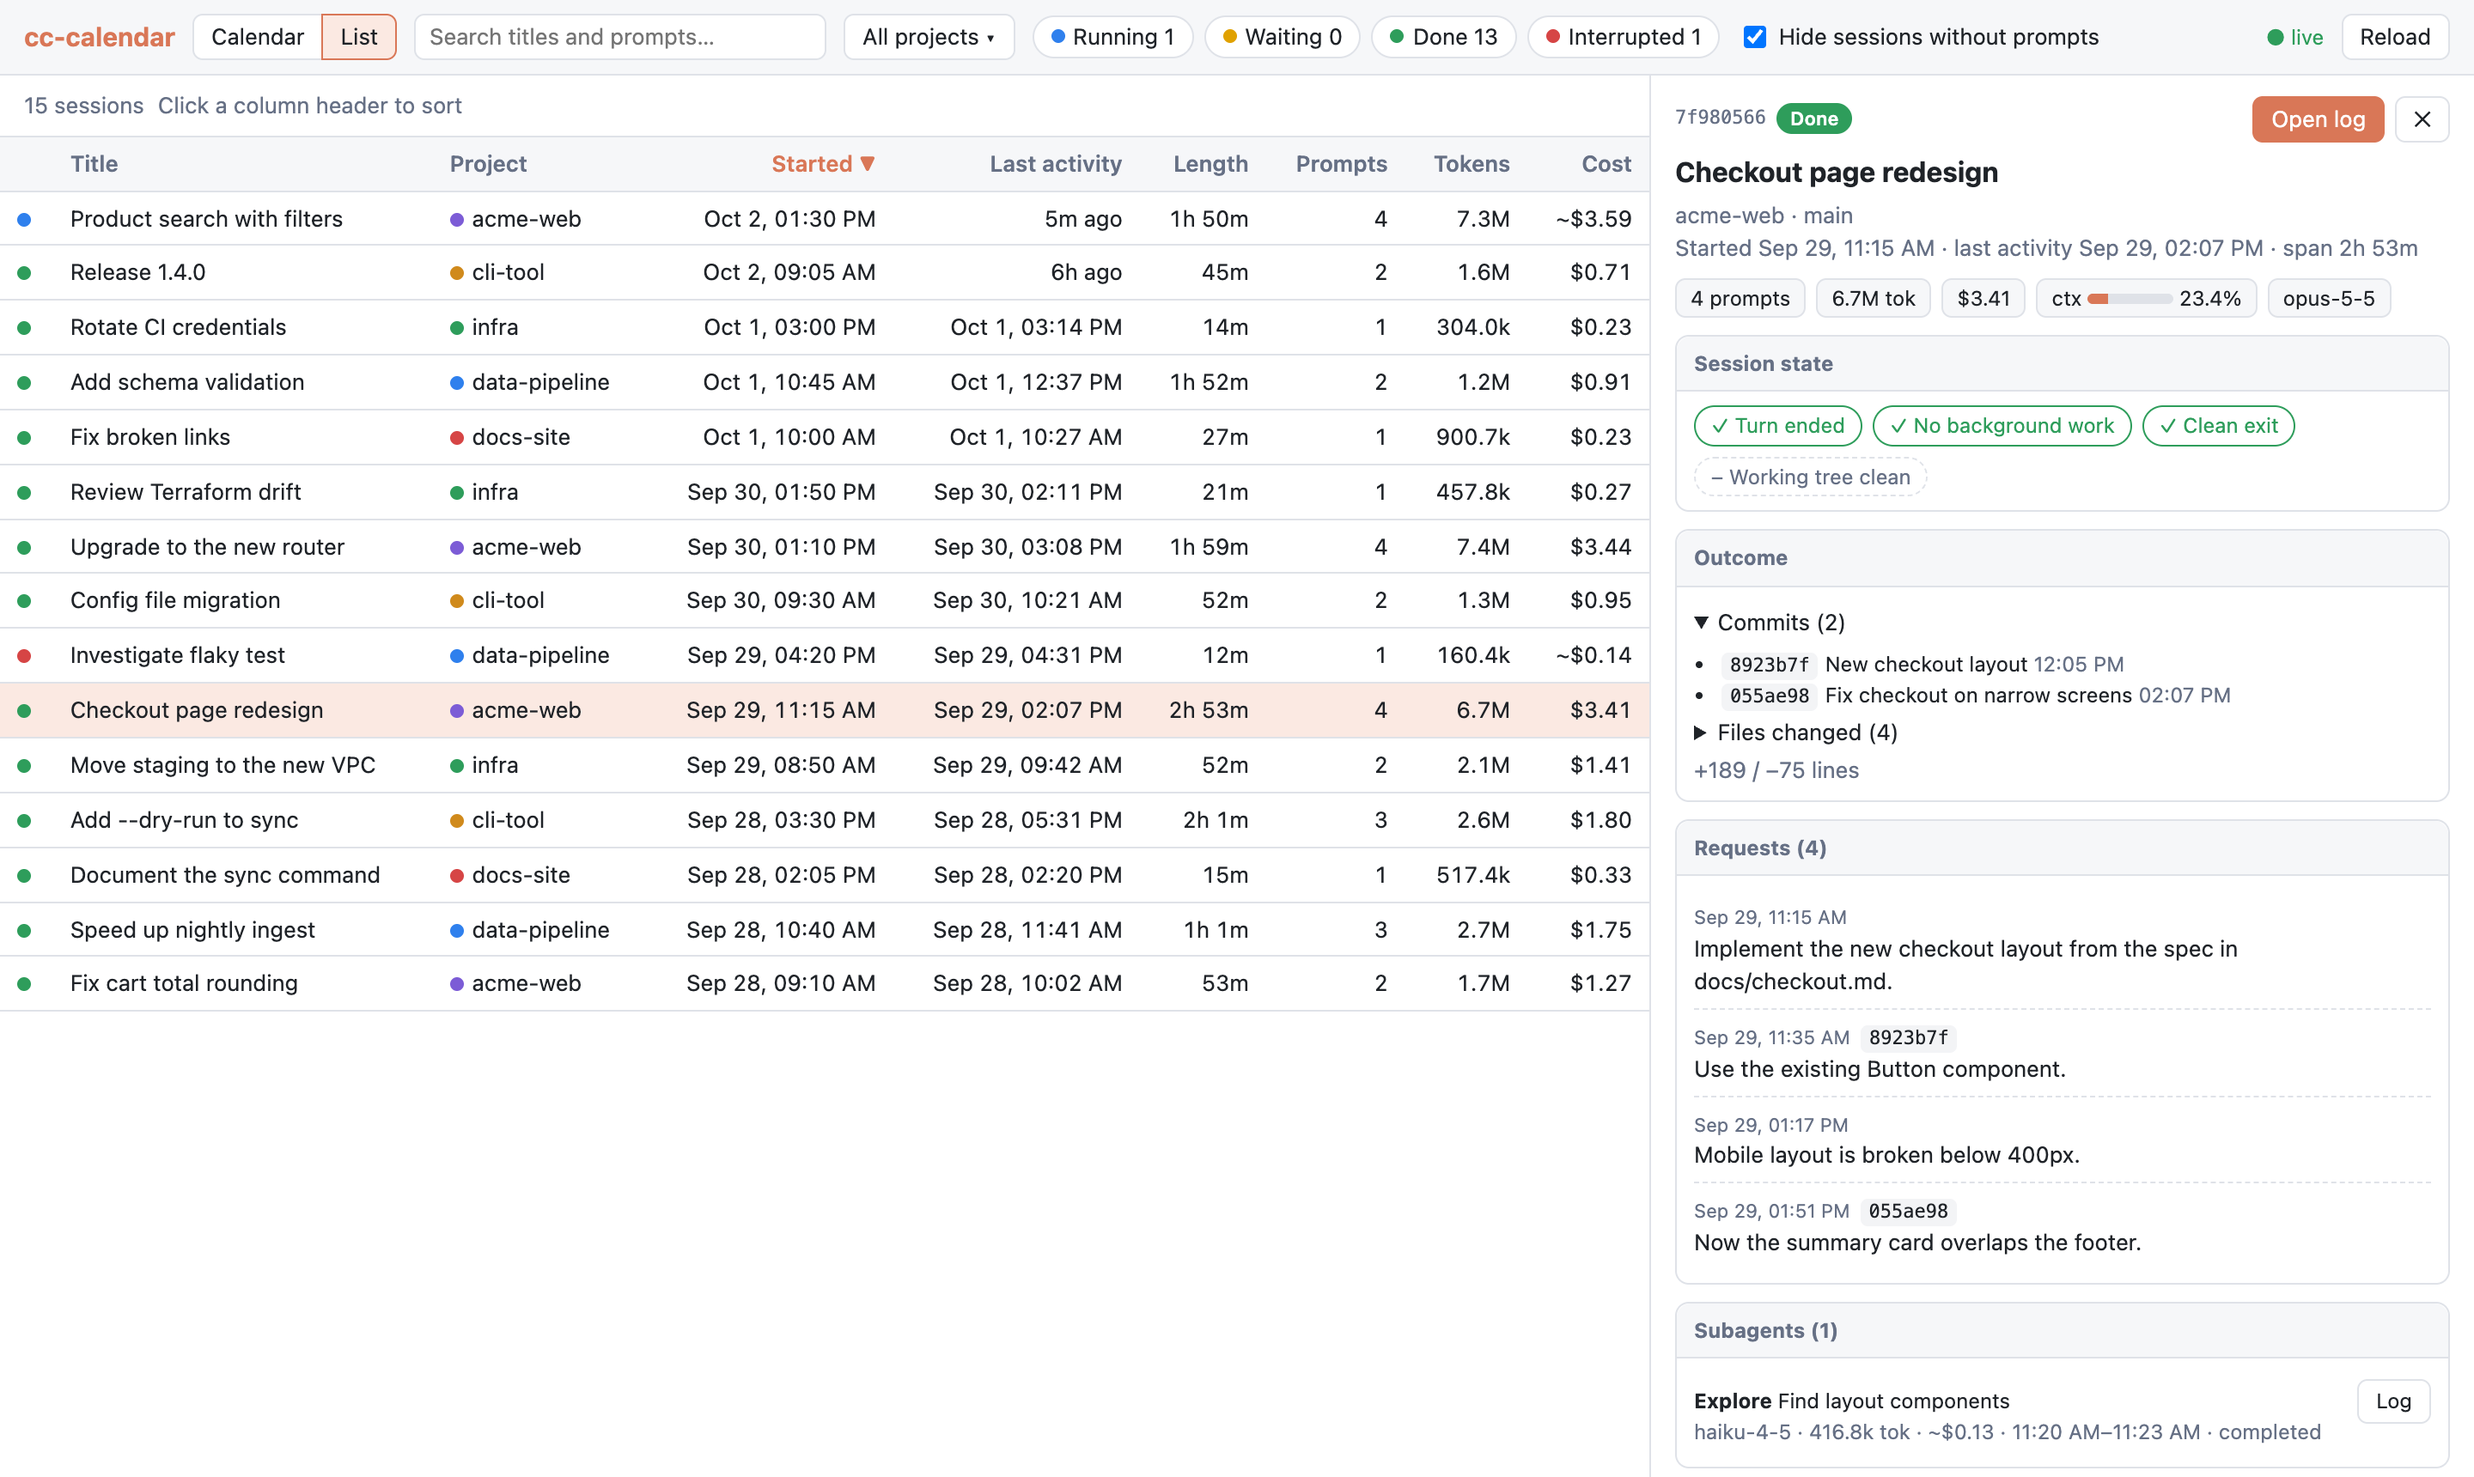
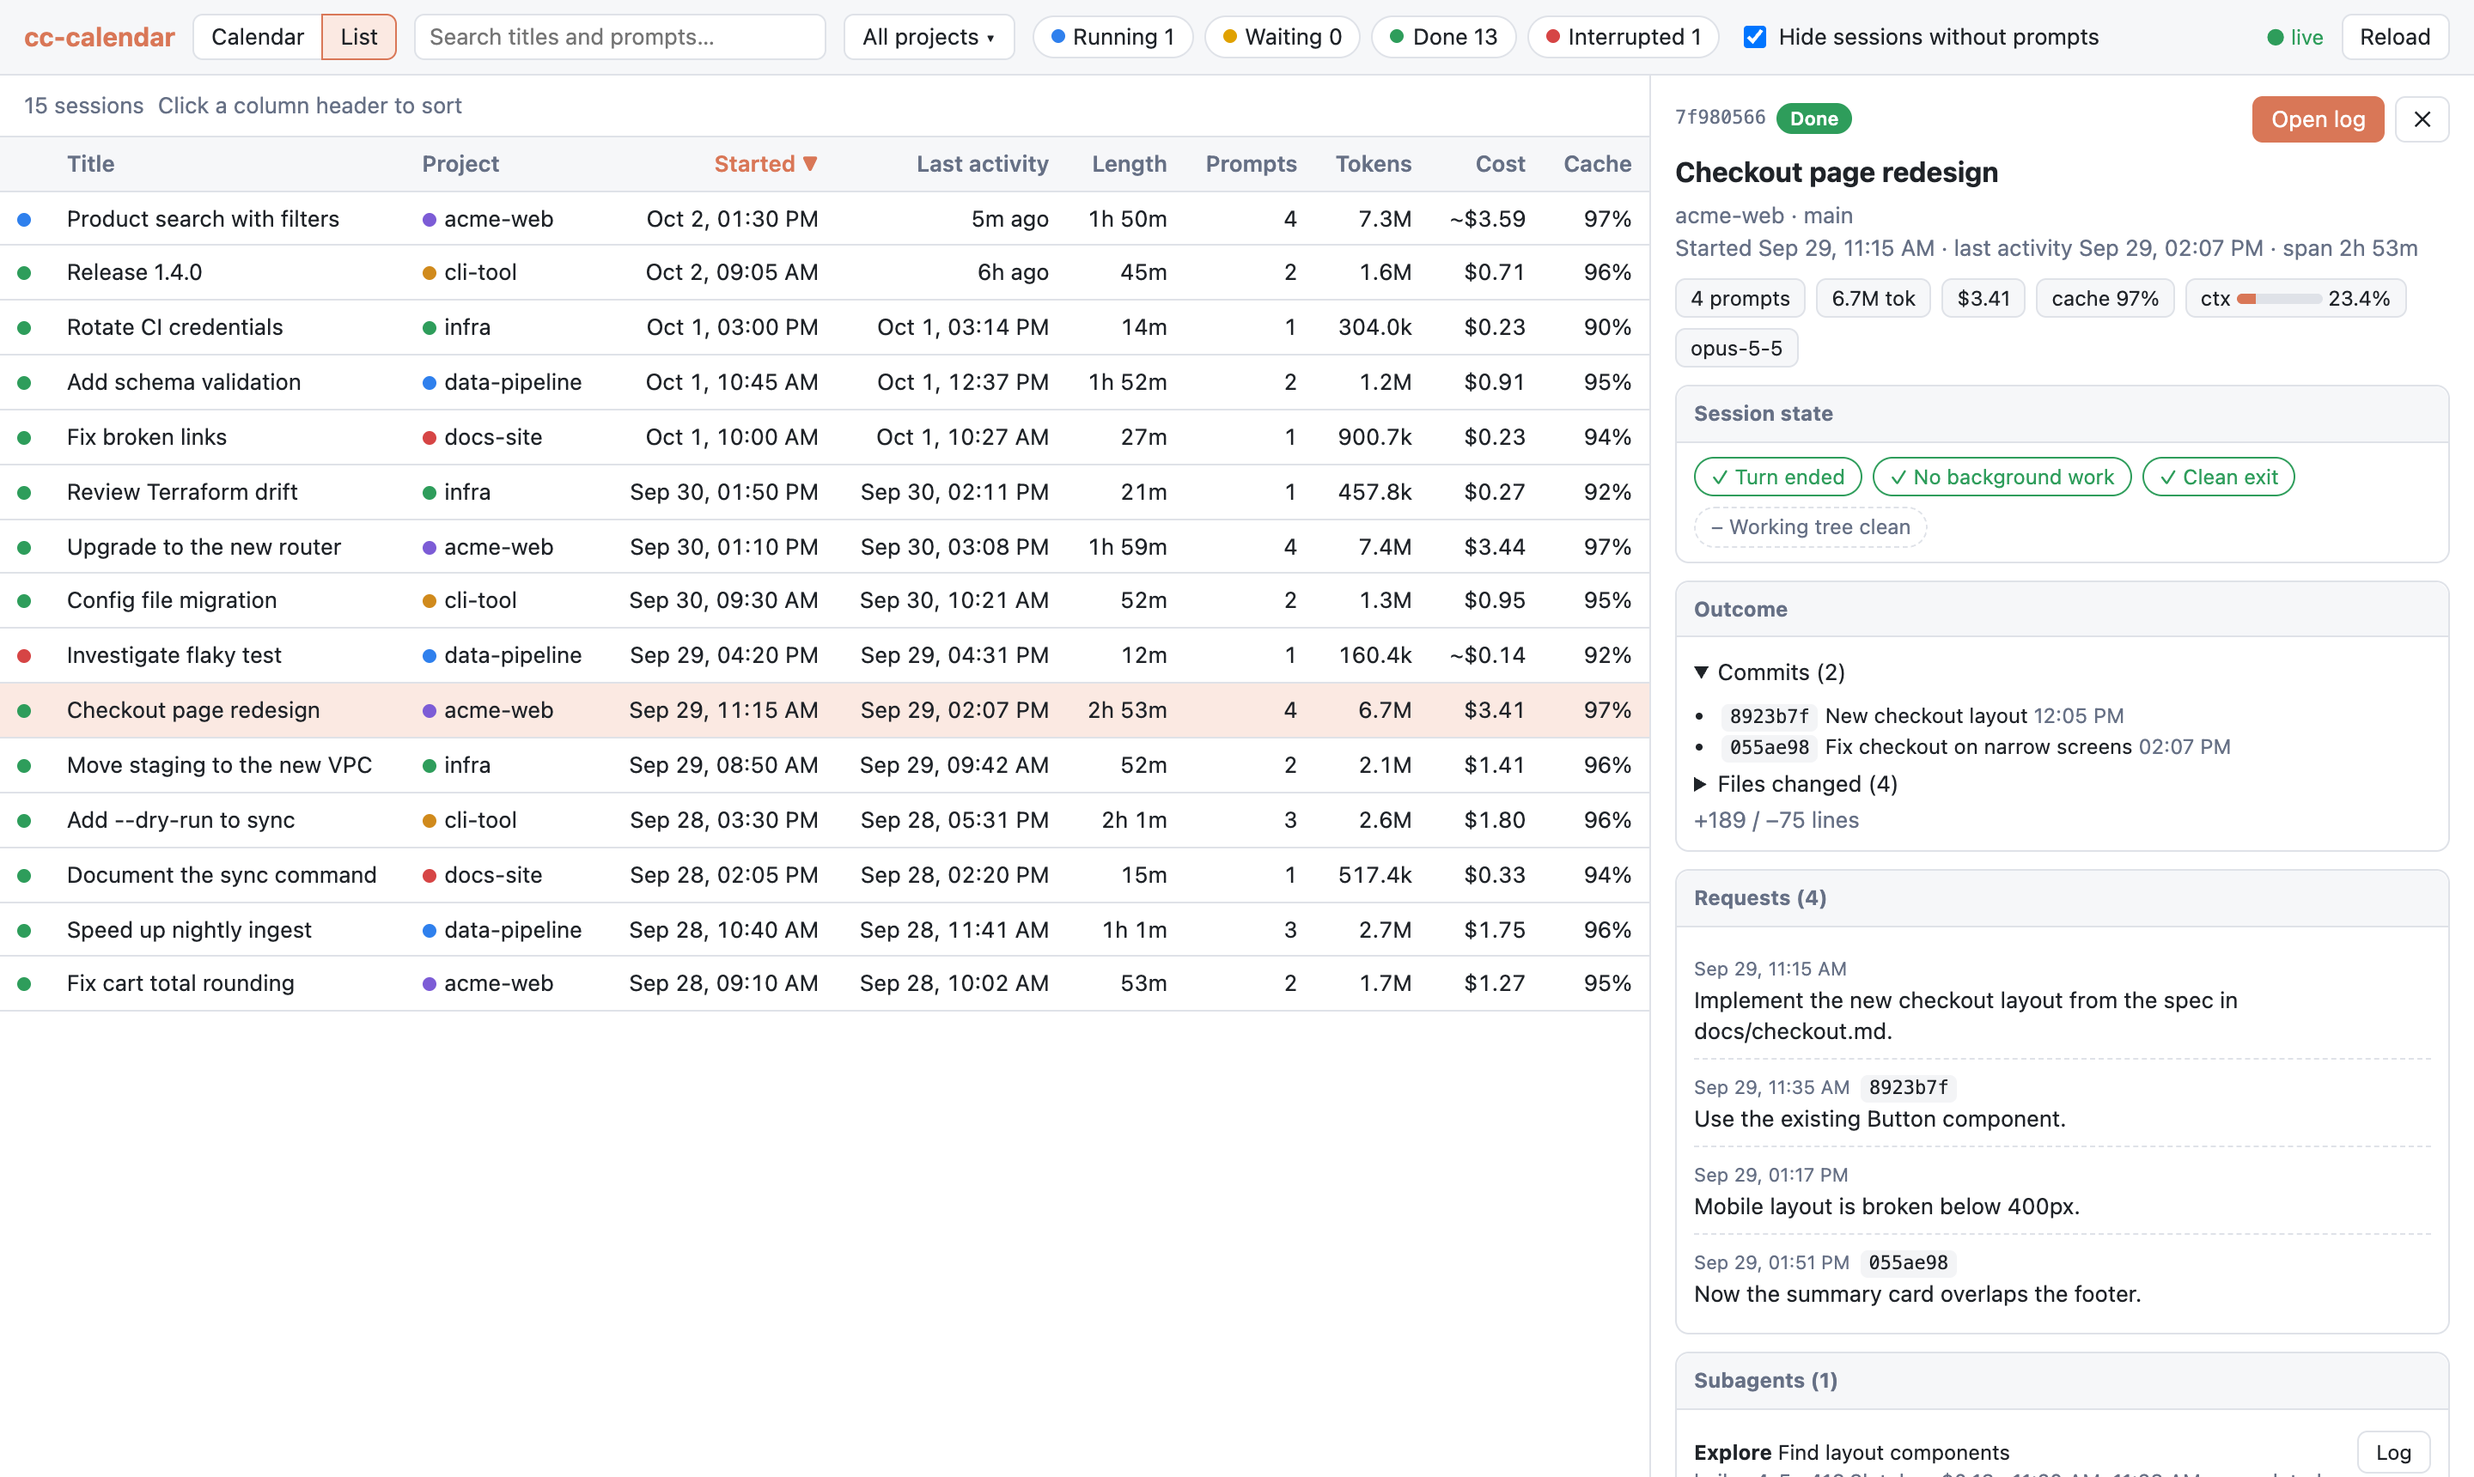
Show cache hit rate and savings per session
Compute each session's cache hit rate (cache reads as a share of
input-side tokens) and the estimated amount caching saved, net of the
cache write premium, including subagents. Show it in the detail pane,
as a sortable Cache column in the list, and as a tile in the
transcript stats. Rates below 90% are highlighted.

Closes #26

diff --git a/src/cc_calendar/static/app.js b/src/cc_calendar/static/app.js
@@ -3,8 +3,8 @@ import { renderCalendar } from "./calendar.js";
 import { renderDetail } from "./detail.js";
 import { openLog } from "./transcript.js";
 import {
-  STATUS_HINTS, STATUS_LABELS, addDays, fmtAgo, fmtCost, fmtDateTime, fmtDuration, fmtTokens, h,
-  matchSnippet, paletteColor,
+  CACHE_LOW, STATUS_HINTS, STATUS_LABELS, addDays, cacheTitle, fmtAgo, fmtCost, fmtDateTime, fmtDuration, fmtTokens, h,
+  fmtPct, matchSnippet, paletteColor,
   prefs, shortModel, startOfDay, startOfWeek, statusColor,
 } from "./util.js";
 
@@ -240,6 +240,7 @@ const LIST_COLUMNS = [
   ["prompts", "Prompts", (s) => s.prompt_count, "desc", true],
   ["tokens", "Tokens", (s) => s.tokens, "desc", true],
   ["cost", "Cost", (s) => s.cost, "desc", true],
+  ["cache", "Cache", (s) => s.cache_hit, "asc", true],
 ];
 
 function sortRows(rows) {
@@ -275,7 +276,7 @@ function renderList(visible) {
     const sorted = state.sort.key === key;
     return h("th", {
       class: ["sortable", numeric ? "num" : "", sorted ? "sorted" : ""].join(" ").trim(),
-      title: key === "status" ? "Sort by status" : `Sort by ${label.toLowerCase()}`,
+      title: key === "status" ? "Sort by status" : key === "cache" ? "Sort by cache hit rate" : `Sort by ${label.toLowerCase()}`,
       onclick: () => setSort(key),
     }, label, sorted ? (state.sort.dir === "asc" ? " ▲" : " ▼") : "");
   });
@@ -297,6 +298,8 @@ function renderList(visible) {
           h("td", { class: "num" }, s.prompt_count),
           h("td", { class: "num" }, fmtTokens(s.tokens)),
           h("td", { class: "num" }, fmtCost(s.cost, s.cost_estimated)),
+          h("td", { class: "num" + (s.cache_hit != null && s.cache_hit < CACHE_LOW ? " warn" : ""), title: cacheTitle(s.cache_hit, s.cache_saved) },
+            fmtPct(s.cache_hit)),
         ))),
     ),
   );

diff --git a/src/cc_calendar/static/transcript.js b/src/cc_calendar/static/transcript.js
@@ -1,6 +1,7 @@
 // Modal transcript viewer with lazy loading and subagent drill-down.
 import {
-  fmtCost, fmtDateTime, fmtDuration, fmtTime, fmtTokens, h, prefs, renderMarkdown, shortModel,
+  cacheTitle, fmtCost, fmtDateTime, fmtDuration, fmtPct, fmtTime, fmtTokens, h, prefs, renderMarkdown,
+  shortModel,
 } from "./util.js";
 
 const PAGE = 300;
@@ -130,6 +131,9 @@ function renderStats(panel, st) {
     tile("Output", fmtTokens(t.output), "tok"),
     tile("Cache read", fmtTokens(t.cache_read), "tok"),
     tile("Cache write", fmtTokens(t.cache_write), "tok"),
+    st.cache_hit == null ? null : tile("Cache hit", fmtPct(st.cache_hit),
+      st.cache_saved >= 0 ? `saved ${fmtCost(st.cache_saved, true)}` : `${fmtCost(-st.cache_saved, true)} extra`,
+      cacheTitle(st.cache_hit, st.cache_saved)),
     tile(main && subs.length ? "Cost (this log)" : "Cost", fmtCost(st.cost, true), "", "Estimated from token usage"),
     main && subs.length ? tile("Subagents", subs.length, `${fmtTokens(subTokens)} tok · ${fmtCost(subCost, true)}`) : null,
     main ? tile("Session total", fmtCost(d.cost, d.cost_estimated), "", d.cost_estimated ? "Estimated, including subagents" : "From Claude Code's cost record") : null,

diff --git a/src/cc_calendar/static/detail.js b/src/cc_calendar/static/detail.js
@@ -1,6 +1,6 @@
 // Right-hand detail pane for one session.
 import {
-  STATUS_HINTS, STATUS_LABELS, fmtAgo, fmtCost, fmtDateTime, fmtDuration, fmtTime, fmtTokens, h,
+  STATUS_HINTS, STATUS_LABELS, CACHE_LOW, cacheTitle, fmtAgo, fmtCost, fmtDateTime, fmtDuration, fmtPct, fmtTime, fmtTokens, h,
   shortModel, statusColor,
 } from "./util.js";
 
@@ -43,6 +43,8 @@ export function renderDetail(pane, d, { onClose, onOpenLog, onSelect }) {
       h("span", { class: "stat" }, `${d.prompt_count} prompts`),
       h("span", { class: "stat", title: "Input + output + cache tokens, including subagents" }, `${fmtTokens(d.tokens)} tok`),
       h("span", { class: "stat", title: d.cost_estimated ? "Estimated from token usage" : "From Claude Code's cost record" }, fmtCost(d.cost, d.cost_estimated)),
+      d.cache_hit == null ? null : h("span", { class: "stat" + (d.cache_hit < CACHE_LOW ? " warn" : ""), title: cacheTitle(d.cache_hit, d.cache_saved) },
+        `cache ${fmtPct(d.cache_hit)}`),
       ctx,
       ...d.models.map((m) => h("span", { class: "stat" }, shortModel(m)))),
   ];

diff --git a/src/cc_calendar/static/util.js b/src/cc_calendar/static/util.js
@@ -59,6 +59,19 @@ export function fmtCost(cost, estimated) {
   return estimated ? "~" + s : s;
 }
 
+// Below this cache hit rate a session is flagged as reusing its cache poorly.
+export const CACHE_LOW = 0.9;
+
+export function fmtPct(ratio) {
+  return ratio == null ? "–" : `${Math.round(ratio * 100)}%`;
+}
+
+export function cacheTitle(hit, saved) {
+  if (hit == null) return "No input tokens";
+  const effect = saved >= 0 ? `saved ${fmtCost(saved, true)}` : `cost ${fmtCost(-saved, true)} extra`;
+  return `Cache reads are ${fmtPct(hit)} of input tokens. Caching ${effect} compared with no caching (cache write premium included).`;
+}
+
 export function fmtDuration(ms) {
   if (ms == null || ms < 0) return "–";
   const m = Math.round(ms / 60000);

diff --git a/src/cc_calendar/static/style.css b/src/cc_calendar/static/style.css
@@ -188,6 +188,8 @@ a { color: var(--accent); }
 }
 .stats { display: flex; flex-wrap: wrap; gap: 6px; margin: 8px 0; }
 .stat { background: var(--bg-soft); border: 1px solid var(--border); border-radius: 6px; padding: 2px 8px; font-size: 12px; }
+.stat.warn { border-color: var(--interrupted); color: var(--interrupted); }
+.list td.warn { color: var(--interrupted); }
 .ctx { display: inline-block; width: 50px; height: 6px; border-radius: 3px; background: var(--border); vertical-align: middle; overflow: hidden; }
 .ctx > i { display: block; height: 100%; background: var(--accent); }
 .card { border: 1px solid var(--border); border-radius: 8px; margin: 10px 0; }

diff --git a/src/cc_calendar/parser.py b/src/cc_calendar/parser.py
@@ -8,7 +8,7 @@ from dataclasses import dataclass, field
 from datetime import datetime
 from typing import Any
 
-from .pricing import context_window, estimate_cost
+from .pricing import cache_hit_rate, cache_savings, context_window, estimate_cost
 
 INTERRUPT_PREFIX = "[Request interrupted"
 GIT_COMMIT_RE = re.compile(r"\bgit\b(?:\s+-[cC]\s+\S+)*[^|;&\n]*?\bcommit\b")
@@ -465,13 +465,23 @@ class SessionAcc:
         Lets the UI split a session's cost across days; only the proportions are used.
         """
         out: Counter = Counter()
-        usages = [*self.usages.values()]
-        for sa in self.subagents.values():
-            usages.extend(sa.usages.values())
-        for u in usages:
+        for u in self.all_usages():
             if u.ts is not None:
                 out[u.ts // DENSITY_BUCKET_MS] += estimate_cost(u.model, u.usage)
         return {b: round(c, 6) for b, c in out.items() if c}
+
+    def all_usages(self) -> list[Usage]:
+        """API usage of the session and its subagents."""
+        out = [*self.usages.values()]
+        for sa in self.subagents.values():
+            out.extend(sa.usages.values())
+        return out
+
+    def cache_stats(self) -> tuple[float | None, float]:
+        """(cache hit rate, estimated USD saved by caching), subagents included."""
+        usages = self.all_usages()
+        saved = sum(cache_savings(u.model, u.usage) for u in usages)
+        return cache_hit_rate([u.usage for u in usages]), saved
 
     def tokens(self) -> int:
         return sum(u.total for u in self.usages.values()) + sum(

diff --git a/src/cc_calendar/pricing.py b/src/cc_calendar/pricing.py
@@ -70,6 +70,29 @@ def estimate_cost(model: str | None, usage: dict) -> float:
     ) / 1_000_000
 
 
+def cache_savings(model: str | None, usage: dict) -> float:
+    """What caching saved versus sending every cached token as plain input.
+
+    Cache reads are cheaper than input; cache writes cost extra, so they count against it.
+    """
+    price = price_for(model)
+    if price is None:
+        return 0.0
+    return (
+        usage.get("cache_read_input_tokens", 0) * (price.input - price.cache_read_rate)
+        - usage.get("cache_creation_input_tokens", 0) * (price.cache_write - price.input)
+    ) / 1_000_000
+
+
+def cache_hit_rate(usages: list[dict]) -> float | None:
+    """Cache reads as a share of all input-side tokens, or None without any input."""
+    read = sum(u.get("cache_read_input_tokens", 0) for u in usages)
+    total = read + sum(
+        u.get("input_tokens", 0) + u.get("cache_creation_input_tokens", 0) for u in usages
+    )
+    return round(read / total, 4) if total else None
+
+
 def context_window(model: str | None) -> int:
     price = price_for(model)
     return price.context if price else 200_000

diff --git a/src/cc_calendar/stats.py b/src/cc_calendar/stats.py
@@ -9,7 +9,7 @@ from typing import Any
 
 from .logview import iter_records
 from .parser import classify_user, parse_ts
-from .pricing import estimate_cost
+from .pricing import cache_hit_rate, cache_savings, estimate_cost
 
 IDLE_MS = 5 * 60_000  # gaps longer than this do not count as active time
 TOKEN_KEYS = {
@@ -114,6 +114,8 @@ def _compute(path: Path, session_id: str | None) -> dict:
         "requests": len(usages),
         "tokens": totals,
         "cost": round(sum(m["cost"] for m in models), 4),
+        "cache_hit": cache_hit_rate([u for _, u in usages.values()]),
+        "cache_saved": round(sum(cache_savings(m, u) for m, u in usages.values()), 4),
         "models": models,
         "tools": [
             {"name": name, "calls": n, "errors": tool_errors.get(name, 0)}

diff --git a/src/cc_calendar/server.py b/src/cc_calendar/server.py
@@ -48,6 +48,7 @@ def summary(s: SessionAcc, live: dict | None, gap_ms: int, continued_from: str |
     status, _ = s.state(live)
     cost, estimated = s.cost()
     models = s.models()
+    cache_hit, cache_saved = s.cache_stats()
     search = " ".join([s.title(), *(p["text"][:300] for p in s.prompts)])[:SEARCH_TEXT_LIMIT]
     return {
         "id": s.session_id,
@@ -65,6 +66,8 @@ def summary(s: SessionAcc, live: dict | None, gap_ms: int, continued_from: str |
         "tokens": s.tokens(),
         "cost": round(cost, 4),
         "cost_estimated": estimated,
+        "cache_hit": cache_hit,
+        "cache_saved": round(cache_saved, 4),
         "model": models[0] if models else None,
         "continued_in": s.continued_in,
         "continued_from": continued_from,

diff --git a/tests/test_parser.py b/tests/test_parser.py
@@ -237,3 +237,18 @@ def test_project_is_launch_directory():
     b.prompt(0, "start")
     b.prompt(1, "later")["cwd"] = "/work/demo/sub/dir"
     assert feed(b).cwd == "/work/demo"
+
+
+def test_cache_stats():
+    b = LogBuilder("s")
+    usage = {
+        "input_tokens": 100,
+        "cache_creation_input_tokens": 100,
+        "cache_read_input_tokens": 800,
+    }
+    b.assistant(0, [], msg_id="m1", model="claude-sonnet-5-5", usage=usage)
+    hit, saved = feed(b).cache_stats()
+    assert hit == 0.8
+    # 800 reads at $2.00 - $0.20, minus 100 writes at the $0.50 premium, per million tokens.
+    assert saved == pytest.approx((800 * 1.8 - 100 * 0.5) / 1e6)
+    assert SessionAcc(session_id="e", path="x", project_dir="p").cache_stats() == (None, 0)

diff --git a/README.md b/README.md
@@ -40,6 +40,9 @@ The server binds to `127.0.0.1` on a free port and opens your browser.
 - **Time and cost totals** — each date shows that day's active time and cost, and the Summary
   table breaks the week (or day) down by project. Active time is the drawn bars; a session's cost
   is split across days by when its requests ran. Totals follow the current filters.
+- **Cache efficiency** — each session shows its cache hit rate (cache reads as a share of input
+  tokens) and roughly how much caching saved. Sort the list by Cache to find sessions with poor
+  reuse; rates below 90% are highlighted (Claude Code usually reuses well over 90%).
 - **Activity density** — a heat strip behind each day shows prompts and responses per 10 minutes.
 - **Colors** by project, status, model or cost (< $1 / $1–5 / $5–20 / $20–50 / ≥ $50).
 - **Status** — Running and Waiting for live sessions, Done or Interrupted for finished ones, with
